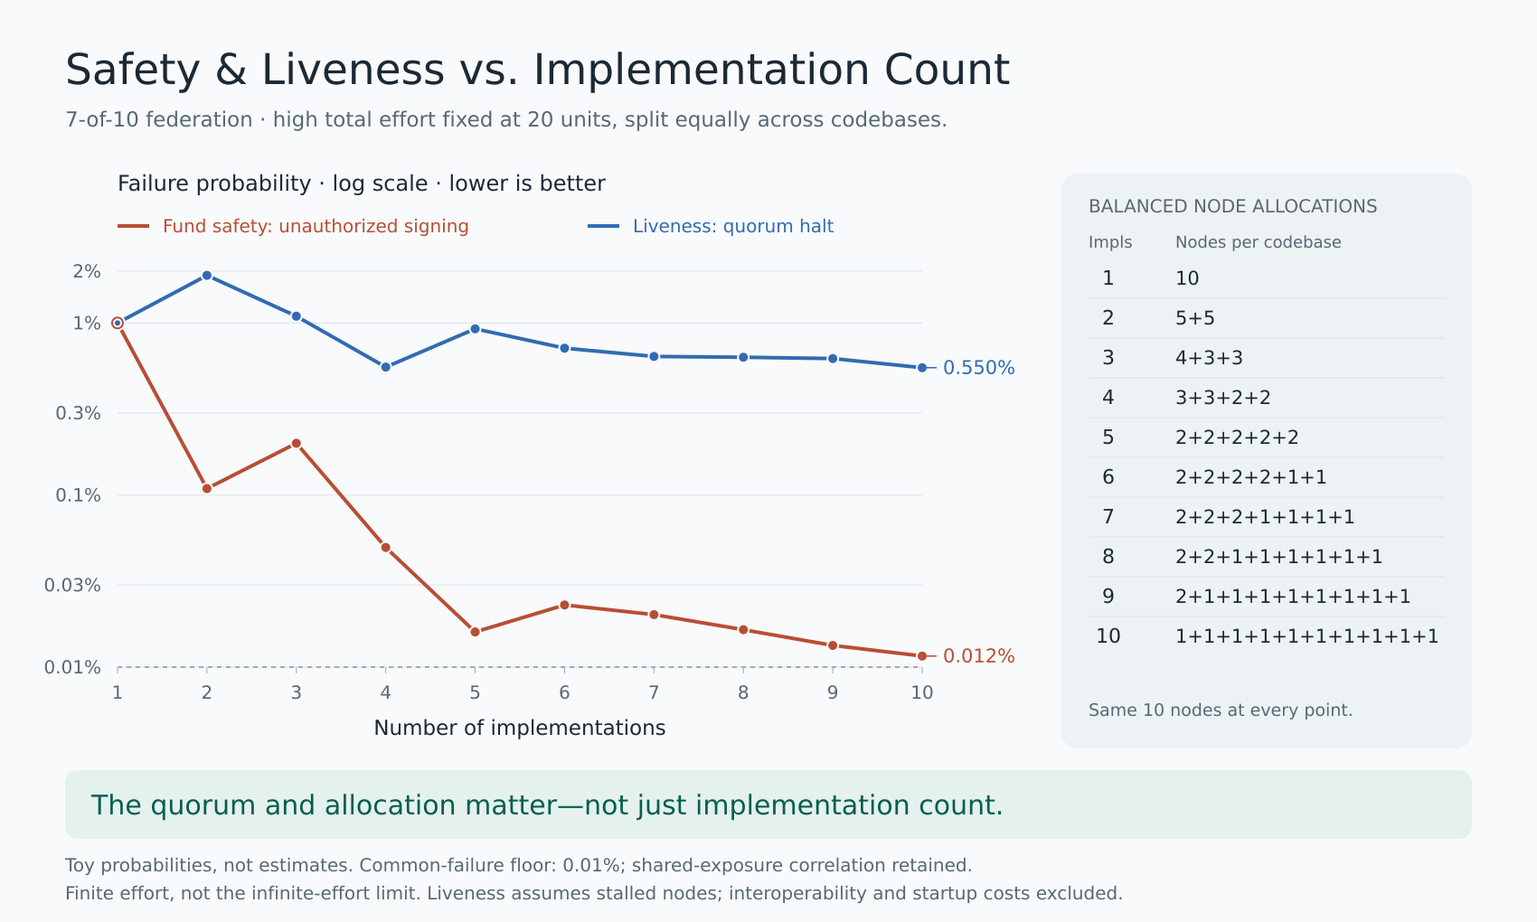
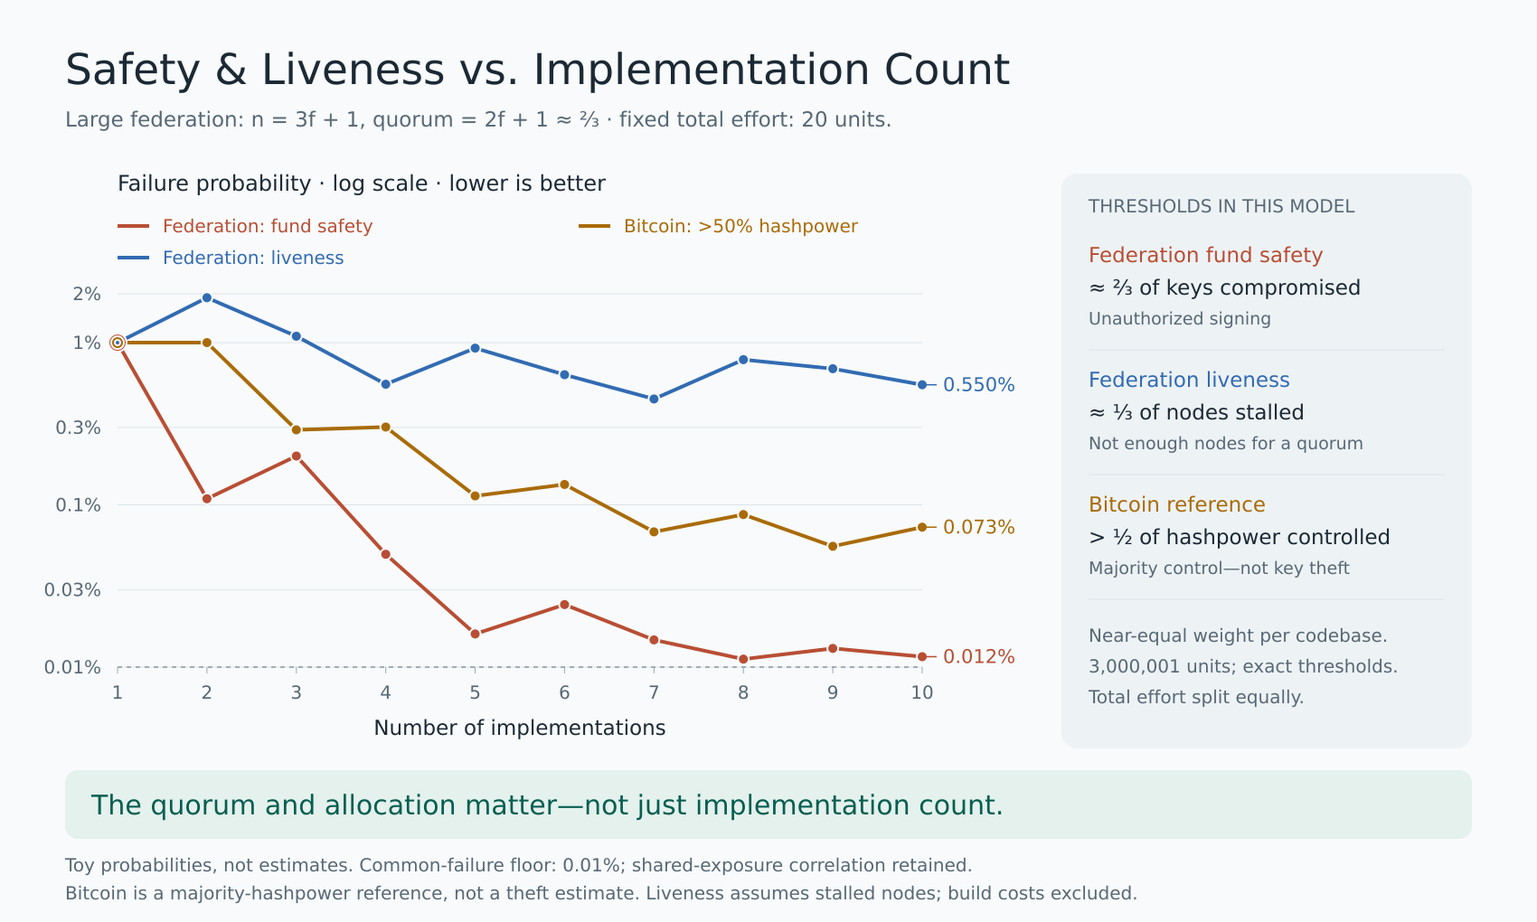
feat(illustrations): model large federations and Bitcoin majority control

diff --git a/implementation_count.py b/implementation_count.py
@@ -7,8 +7,11 @@ from html import escape
 import csv
 
 OUT = Path(__file__).resolve().parent
-NODES = 10
-QUORUM = 7
+FAULT_BUDGET = 1_000_000
+NODES = 3 * FAULT_BUDGET + 1
+QUORUM = 2 * FAULT_BUDGET + 1
+BITCOIN_MAJORITY = NODES // 2 + 1
+MAX_IMPLEMENTATIONS = 10
 BLOCKING_FAILURES = NODES - QUORUM + 1
 TOTAL_EFFORT = 20
 INITIAL_CONDITIONAL_RISK = 0.5
@@ -18,6 +21,7 @@ SINGLE_IMPLEMENTATION_FLOOR = 0.01
 EXPOSURE_PROBABILITY = (SINGLE_IMPLEMENTATION_FLOOR - SHARED_FAILURE_PROBABILITY) / RESIDUAL_CONDITIONAL_RISK
 SAFETY_COLOR = '#b84e34'
 LIVENESS_COLOR = '#326bb2'
+BITCOIN_COLOR = '#a96b08'
 
 
 @dataclass(frozen=True)
@@ -26,11 +30,12 @@ class Result:
     conditional_codebase_risk: float
     safety_failure: float
     liveness_failure: float
+    bitcoin_majority_control: float
 
 
 def balanced_allocation(count):
-    if not 1 <= count <= NODES:
-        raise ValueError(f'Implementation count must be between 1 and {NODES}')
+    if not 1 <= count <= MAX_IMPLEMENTATIONS:
+        raise ValueError(f'Implementation count must be between 1 and {MAX_IMPLEMENTATIONS}')
     size, extra = divmod(NODES, count)
     return (size + 1,) * extra + (size,) * (count - extra)
 
@@ -49,28 +54,32 @@ def calculate(count):
     probability = RESIDUAL_CONDITIONAL_RISK + (INITIAL_CONDITIONAL_RISK - RESIDUAL_CONDITIONAL_RISK) * exp(-TOTAL_EFFORT / count)
     def overall(threshold):
         return SHARED_FAILURE_PROBABILITY + EXPOSURE_PROBABILITY * failure_probability(allocation, probability, threshold)
-    return Result(allocation, probability, overall(QUORUM), overall(BLOCKING_FAILURES))
+    return Result(allocation, probability, overall(QUORUM), overall(BLOCKING_FAILURES), overall(BITCOIN_MAJORITY))
 
 
 def check_model(results):
+    assert NODES == 3 * FAULT_BUDGET + 1 and QUORUM == 2 * FAULT_BUDGET + 1
+    assert BLOCKING_FAILURES == FAULT_BUDGET + 1
+    assert 2 * (BITCOIN_MAJORITY - 1) <= NODES < 2 * BITCOIN_MAJORITY
     for row in results:
         allocation = row.allocation
         assert sum(allocation) == NODES, 'Node count must stay fixed'
         assert max(allocation) - min(allocation) <= 1, 'Allocation must be balanced'
-        assert SHARED_FAILURE_PROBABILITY <= row.safety_failure <= row.liveness_failure <= 1
+        assert isclose(failure_probability(allocation, 0.5, BITCOIN_MAJORITY), 0.5, abs_tol=1e-12), 'Odd total weight gives complementary majority outcomes'
+        assert SHARED_FAILURE_PROBABILITY <= row.safety_failure <= row.bitcoin_majority_control <= row.liveness_failure <= 1
         # Independently convolve each group's node count to check enumeration.
         for probability in (0, row.conditional_codebase_risk, 0.5, 1):
-            distribution = [1.0] + [0.0] * NODES
+            distribution = {0: 1.0}
             for size in allocation:
-                updated = [0.0] * (NODES + 1)
-                for failed_nodes, mass in enumerate(distribution):
-                    updated[failed_nodes] += mass * (1 - probability)
+                updated = {}
+                for failed_nodes, mass in distribution.items():
+                    updated[failed_nodes] = updated.get(failed_nodes, 0.0) + mass * (1 - probability)
                     if failed_nodes + size <= NODES:
-                        updated[failed_nodes + size] += mass * probability
+                        updated[failed_nodes + size] = updated.get(failed_nodes + size, 0.0) + mass * probability
                 distribution = updated
-            assert isclose(sum(distribution), 1, abs_tol=1e-12), 'Probability mass must be preserved'
-            for threshold in (QUORUM, BLOCKING_FAILURES):
-                assert isclose(failure_probability(allocation, probability, threshold), sum(distribution[threshold:]), abs_tol=1e-12)
+            assert isclose(sum(distribution.values()), 1, abs_tol=1e-12), 'Probability mass must be preserved'
+            for threshold in (QUORUM, BLOCKING_FAILURES, BITCOIN_MAJORITY):
+                assert isclose(failure_probability(allocation, probability, threshold), sum(mass for failed_nodes, mass in distribution.items() if failed_nodes >= threshold), abs_tol=1e-12)
     assert isclose(results[0].safety_failure, results[0].liveness_failure, abs_tol=1e-12)
     # Cross-check against the existing charts without importing their generators,
     # whose module-level execution would regenerate files as a side effect.
@@ -84,10 +93,10 @@ def check_model(results):
 def write_csv(results):
     with (OUT / 'implementation-count.csv').open('w', newline='') as handle:
         writer = csv.writer(handle, lineterminator='\n')
-        writer.writerow(('implementations', 'node_allocation', 'total_effort', 'effort_per_implementation', 'conditional_codebase_failure_probability', 'fund_safety_failure_probability', 'liveness_failure_probability'))
+        writer.writerow(('implementations', 'node_allocation', 'total_effort', 'effort_per_implementation', 'conditional_codebase_failure_probability', 'fund_safety_failure_probability', 'liveness_failure_probability', 'bitcoin_majority_control_probability'))
         for row in results:
             count = len(row.allocation)
-            writer.writerow((count, '+'.join(map(str, row.allocation)), TOTAL_EFFORT, TOTAL_EFFORT / count, row.conditional_codebase_risk, row.safety_failure, row.liveness_failure))
+            writer.writerow((count, '+'.join(map(str, row.allocation)), TOTAL_EFFORT, TOTAL_EFFORT / count, row.conditional_codebase_risk, row.safety_failure, row.liveness_failure, row.bitcoin_majority_control))
 
 
 def write_svg(results):
@@ -102,29 +111,31 @@ def write_svg(results):
         svg.append(f'<circle cx="{x}" cy="{y}" r="{radius}" fill="{color}" stroke="#f8fafb" stroke-width="2"/>')
 
     text(72, 93, 'Safety & Liveness vs. Implementation Count', 47, weight='bold')
-    text(72, 140, '7-of-10 federation · high total effort fixed at 20 units, split equally across codebases.', 23, '#576875')
+    text(72, 140, 'Large federation: n = 3f + 1, quorum = 2f + 1 ≈ ⅔ · fixed total effort: 20 units.', 23, '#576875')
     text(130, 211, 'Failure probability · log scale · lower is better', 24, weight='bold')
     line(130, 250, 165, 250, SAFETY_COLOR, 4)
-    text(180, 257, 'Fund safety: unauthorized signing', 20, SAFETY_COLOR)
-    line(650, 250, 685, 250, LIVENESS_COLOR, 4)
-    text(700, 257, 'Liveness: quorum halt', 20, LIVENESS_COLOR)
+    text(180, 257, 'Federation: fund safety', 20, SAFETY_COLOR)
+    line(130, 285, 165, 285, LIVENESS_COLOR, 4)
+    text(180, 292, 'Federation: liveness', 20, LIVENESS_COLOR)
+    line(640, 250, 675, 250, BITCOIN_COLOR, 4)
+    text(690, 257, 'Bitcoin: >50% hashpower', 20, BITCOIN_COLOR)
 
-    x0, x1, y0, y1 = 130, 1020, 738, 300
+    x0, x1, y0, y1 = 130, 1020, 738, 325
     lower, upper = SHARED_FAILURE_PROBABILITY, 0.02
-    px = lambda count: x0 + (x1 - x0) * (count - 1) / (NODES - 1)
+    px = lambda count: x0 + (x1 - x0) * (count - 1) / (MAX_IMPLEMENTATIONS - 1)
     py = lambda probability: y0 - (y0 - y1) * (log10(probability) - log10(lower)) / (log10(upper) - log10(lower))
     for percent in (0.01, 0.03, 0.1, 0.3, 1, 2):
         y = py(percent / 100)
         line(x0, y, x1, y)
         text(x0 - 18, y + 7, f'{percent:g}%', 20, '#576875', anchor='end')
     line(x0, y0, x1, y0, '#8796a0', 1.5, '5 5')
-    for count in range(1, NODES + 1):
+    for count in range(1, MAX_IMPLEMENTATIONS + 1):
         x = px(count)
         line(x, y0, x, y0 + 7, '#9aaab5')
         text(x, y0 + 35, str(count), 20, '#576875', anchor='middle')
     text((x0 + x1) / 2, 813, 'Number of implementations', 23, anchor='middle')
 
-    for field, color in (('safety_failure', SAFETY_COLOR), ('liveness_failure', LIVENESS_COLOR)):
+    for field, color in (('safety_failure', SAFETY_COLOR), ('liveness_failure', LIVENESS_COLOR), ('bitcoin_majority_control', BITCOIN_COLOR)):
         points = ' '.join(f'{px(len(row.allocation)):.2f},{py(getattr(row, field)):.2f}' for row in results)
         svg.append(f'<polyline points="{points}" fill="none" stroke="{color}" stroke-width="4" stroke-linejoin="round"/>')
         for row in results:
@@ -132,38 +143,45 @@ def write_svg(results):
         risk = getattr(results[-1], field)
         line(x1, py(risk), x1 + 16, py(risk), color, 1.5)
         text(x1 + 23, py(risk) + 7, f'{risk * 100:.3f}%', 21, color, 'bold')
-    # Both metrics coincide at one codebase; concentric markers keep both visible.
-    dot(px(1), py(results[0].safety_failure), SAFETY_COLOR, 8)
-    dot(px(1), py(results[0].liveness_failure), LIVENESS_COLOR, 4)
+    # All three metrics coincide at one codebase; concentric markers show each.
+    dot(px(1), py(results[0].safety_failure), SAFETY_COLOR, 10)
+    dot(px(1), py(results[0].bitcoin_majority_control), BITCOIN_COLOR, 7)
+    dot(px(1), py(results[0].liveness_failure), LIVENESS_COLOR, 3)
 
     rect(1174, 192, 454, 636, '#edf2f5', 18)
-    text(1204, 235, 'BALANCED NODE ALLOCATIONS', 20, '#576875', 'bold')
-    text(1204, 274, 'Impls', 18, '#576875')
-    text(1300, 274, 'Nodes per codebase', 18, '#576875')
-    for index, row in enumerate(results):
-        y = 315 + index * 44
-        text(1226, y, str(len(row.allocation)), 22, weight='bold', anchor='middle')
-        text(1300, y, '+'.join(map(str, row.allocation)), 21)
-        if index < NODES - 1:
-            line(1204, y + 15, 1598, y + 15, '#dce3e8')
-    text(1204, 792, 'Same 10 nodes at every point.', 19, '#576875')
+    text(1204, 235, 'THRESHOLDS IN THIS MODEL', 20, '#576875', 'bold')
+    text(1204, 290, 'Federation fund safety', 23, SAFETY_COLOR, 'bold')
+    text(1204, 326, '≈ ⅔ of keys compromised', 23)
+    text(1204, 359, 'Unauthorized signing', 19, '#576875')
+    line(1204, 387, 1598, 387)
+    text(1204, 428, 'Federation liveness', 23, LIVENESS_COLOR, 'bold')
+    text(1204, 464, '≈ ⅓ of nodes stalled', 23)
+    text(1204, 497, 'Not enough nodes for a quorum', 19, '#576875')
+    line(1204, 525, 1598, 525)
+    text(1204, 566, 'Bitcoin reference', 23, BITCOIN_COLOR, 'bold')
+    text(1204, 602, '> ½ of hashpower controlled', 23)
+    text(1204, 635, 'Majority control—not key theft', 19, '#576875')
+    line(1204, 663, 1598, 663)
+    text(1204, 710, 'Near-equal weight per codebase.', 20, '#576875')
+    text(1204, 744, '3,000,001 units; exact thresholds.', 20, '#576875')
+    text(1204, 778, 'Total effort split equally.', 20, '#576875')
 
     rect(72, 852, 1556, 76, '#e4f1ed', 14)
     text(101, 901, 'The quorum and allocation matter—not just implementation count.', 30, '#075e50', 'bold')
     text(72, 964, 'Toy probabilities, not estimates. Common-failure floor: 0.01%; shared-exposure correlation retained.', 20, '#576875')
-    text(72, 995, 'Finite effort, not the infinite-effort limit. Liveness assumes stalled nodes; interoperability and startup costs excluded.', 20, '#576875')
+    text(72, 995, 'Bitcoin is a majority-hashpower reference, not a theft estimate. Liveness assumes stalled nodes; build costs excluded.', 20, '#576875')
     svg.extend(('</g>', '</svg>'))
     (OUT / 'implementation-count.svg').write_text('\n'.join(svg), encoding='utf-8')
 
 
 def main():
-    results = [calculate(count) for count in range(1, NODES + 1)]
+    results = [calculate(count) for count in range(1, MAX_IMPLEMENTATIONS + 1)]
     check_model(results)
     write_csv(results)
     write_svg(results)
-    print('Model checks passed, including agreement with existing charts at E=20.')
+    print('Model checks passed: large federation, strict hashpower majority, and unchanged 1/2/4-codebase federation cases.')
     for row in results:
-        print(f'{len(row.allocation):2} implementations: safety failure {100 * row.safety_failure:.6f}%; liveness failure {100 * row.liveness_failure:.6f}%')
+        print(f'{len(row.allocation):2} implementations: safety failure {100 * row.safety_failure:.6f}%; liveness failure {100 * row.liveness_failure:.6f}%; Bitcoin majority {100 * row.bitcoin_majority_control:.6f}%')
 
 
 if __name__ == '__main__':

diff --git a/implementation-count-model.md b/implementation-count-model.md
@@ -1,53 +1,66 @@
 # Safety and Liveness vs. Implementation Count
 
-This chart takes a **fixed-total-effort slice at E=20** of the existing illustrative models, extending balanced deployments from one to ten implementations in a 7-of-10 federation. E=20 is the right-hand endpoint of the existing charts, not the infinite-effort limit. Each codebase gets E/k effort, so increasing implementation count reduces effort per codebase.
+This chart compares **one to ten implementations** at a fixed **20-unit total hardening budget**, using a very large federation and an additional Bitcoin-style majority-hashpower reference. Each codebase receives E/k effort. This is finite high effort, not the infinite-effort limit.
 
-The plot shows **failure probabilities**, not success probabilities. Fund-safety failure means unauthorized signing; liveness failure means a bug-induced quorum halt. A logarithmic vertical axis makes small probabilities visible. Connecting lines guide the eye between discrete implementation counts; fractional codebase counts are not modeled.
+All plotted probabilities are hypothetical. The three lines model different outcomes; they are not interchangeable estimates of actual fund-loss risk.
 
-## Allocation and failure conditions
+## Federation and thresholds
 
-Ten nodes are distributed as evenly as possible: for k implementations, each receives either `floor(10/k)` or `ceil(10/k)` nodes.
+Use `f = 1,000,000`, so:
 
-- **Fund safety fails** when compromised codebases collectively control at least **seven keys**.
-- **Liveness fails** when stalled codebases collectively disable at least **four nodes**, leaving fewer than seven compatible, responsive nodes.
+- Federation size: `n = 3f + 1 = 3,000,001` nodes.
+- Signing quorum: `q = 2f + 1 = 2,000,001` keys, approximately two thirds.
+- Quorum halt: `n - q + 1 = f + 1 = 1,000,001` stalled nodes, approximately one third.
 
-Safety and liveness are evaluated as separate scenarios with the same illustrative parameters, not as joint real-world events. The probabilities are not meant to be added together.
+For k implementations, distribute nodes as evenly as possible: each codebase receives either `floor(n/k)` or `ceil(n/k)` nodes. A failed codebase affects its entire assigned group.
 
-## Probability model
+**Exact integer thresholds are retained.** Even with millions of nodes, rounding can matter when a group combination lies exactly around one third, one half or two thirds. For example, at k=3 the allocation is 1,000,001 + 1,000,000 + 1,000,000: the largest codebase alone can halt the federation, whereas either smaller one alone cannot. The chart enumerates weighted combinations, rather than rounding a fraction of k implementations to an integer.
 
-As in the existing charts:
+This is one explicit near-equal allocation, not a claim that every possible large-federation allocation yields identical probabilities.
 
-- Shared failure directly causes the relevant system failure with probability **0.01%**.
+## Bitcoin reference: majority hashpower, not node count
+
+For the orange line, reinterpret the same 3,000,001 abstract units as **hashpower units**, split nearly equally across implementations. Its threshold is strictly greater than 50%: `floor(n/2) + 1 = 1,500,001` units. A compromised mining implementation is assumed to give an adversary control of all hashpower assigned to it. That is a toy-model assumption, not a description of actual Bitcoin implementation shares or every software vulnerability.
+
+Bitcoin's developer guide explains majority-hashpower attacks on transaction history and also notes that attacks can succeed with less than 50%. The graph therefore measures a **majority-control event**, not the full probability of a successful Bitcoin attack. [Bitcoin Developer Guide: Block Chain](https://developer.bitcoin.org/devguide/block_chain.html)
+
+Majority hashpower does not grant private keys or let miners make arbitrary invalid transactions acceptable to correct validating nodes. The Bitcoin guide describes chain selection among valid blocks. This is not a Bitcoin key-theft curve and is not directly equivalent to unauthorized threshold signing. [Bitcoin Developer Guide: Block Chain](https://developer.bitcoin.org/devguide/block_chain.html)
+
+## Shared probability assumptions
+
+As in the earlier charts:
+
+- Shared failure directly causes the relevant modeled outcome with probability **0.01%**.
 - A separate shared-exposure scenario occurs with probability **9.9%**.
-- Conditional on that scenario, each codebase independently fails with probability `p = 0.10 + 0.40 * exp(-20/k)`.
-- Overall failure probability is `0.0001 + 0.099 * Q`, where Q is the conditional probability of reaching the relevant failed-node threshold.
+- Conditional on that scenario, codebases independently fail with probability `p = 0.10 + 0.40 * exp(-20/k)`.
+- Overall probability is `0.0001 + 0.099 * Q`, where Q is the conditional probability of reaching the relevant weight threshold.
 
-For allocation `a[1], ..., a[k]`, the model enumerates every subset S of failed codebases and sums
+For each subset S of failed implementations, sum `p^|S| * (1-p)^(k-|S|)` if its total assigned weight reaches the threshold. Shared failure and shared exposure create unconditional correlation; independence only holds conditional on exposure.
 
-`p^|S| * (1-p)^(k-|S|)`
-
-over subsets whose total node count reaches seven (safety) or four (liveness). Shared failure and shared exposure create **unconditional correlation**; codebase failures are independent only conditional on exposure.
+Identical numerical parameters are used to isolate threshold effects, not to claim equal real-world bug rates across federation signing, consensus liveness and Bitcoin mining. The three probabilities should not be added together.
 
 ## Results at total effort E=20
 
-| Implementations | Node allocation | Fund-safety failure | Liveness failure |
+| Implementations | Federation safety failure | Federation liveness failure | Bitcoin majority control |
 | --- | --- | --- | --- |
-| 1 | 10 | 1.000000% | 1.000000% |
-| 2 | 5+5 | 0.109036% | 1.891324% |
-| 3 | 4+3+3 | 0.199969% | 1.094998% |
-| 4 | 3+3+2+2 | 0.049586% | 0.553976% |
-| 5 | 2+2+2+2+2 | 0.016004% | 0.924729% |
-| 6 | 2+2+2+2+1+1 | 0.022965% | 0.713566% |
-| 7 | 2+2+2+1+1+1+1 | 0.020178% | 0.638870% |
-| 8 | 2+2+1+1+1+1+1+1 | 0.016495% | 0.632048% |
-| 9 | 2+1+1+1+1+1+1+1+1 | 0.013363% | 0.621218% |
-| 10 | 1+1+1+1+1+1+1+1+1+1 | 0.011592% | 0.549635% |
+| 1 | 1.000000% | 1.000000% | 1.000000% |
+| 2 | 0.109036% | 1.891324% | 1.000180% |
+| 3 | 0.199969% | 1.094998% | 0.289928% |
+| 4 | 0.049586% | 0.553976% | 0.301781% |
+| 5 | 0.016004% | 0.924729% | 0.113534% |
+| 6 | 0.024289% | 0.634005% | 0.133554% |
+| 7 | 0.014711% | 0.449394% | 0.068166% |
+| 8 | 0.011196% | 0.785333% | 0.087150% |
+| 9 | 0.013039% | 0.690366% | 0.055535% |
+| 10 | 0.011592% | 0.549635% | 0.072853% |
 
-## Interpretation and limits
+## Reading the plot and limitations
 
-The curves need not decrease monotonically. Integer node allocations change which failure combinations cross the threshold, while the fixed budget gives each codebase less hardening as k grows. For example, going from four to five implementations changes the allocation from 3+3+2+2 to 2+2+2+2+2. A liveness halt still requires two stalled codebases, but there are more possible pairs and less hardening per codebase.
+The vertical axis is logarithmic; lower is better. Lines connect discrete implementation counts, not fractional codebase counts. Curves are not necessarily monotonic: allocations change which subsets reach thresholds, and more codebases mean less hardening per codebase.
 
-All numbers are hypothetical. Equal starting quality and hardening efficiency are assumed. Startup costs, interoperability regressions, recovery time and non-codebase failures are excluded. Liveness assumes affected nodes stop or refuse to vote, while remaining nodes agree and can communicate; it does not model every consensus bug. See the existing safety and liveness model notes for further limitations.
+Liveness assumes affected nodes stop participating or refuse to vote, while remaining nodes agree and can communicate. It does not model every consensus bug or arbitrary Byzantine behavior. The federation safety line models direct compromise of signing keys, not every way consensus safety can fail. Startup costs, interoperability regressions, unequal codebase quality, outage duration, mining economics, confirmation depth and actual Bitcoin deployment shares are excluded.
+
+The original hardening-effort charts remain 7-of-10 examples. Their one-, two-, and four-implementation probabilities happen to match the corresponding federation points here because those allocations have the same successful failure-subset patterns. That equivalence does not hold for all implementation counts.
 
 ## Regenerate
 
@@ -56,4 +69,4 @@ python3 implementation_count.py
 magick -background '#f8fafb' implementation-count.svg implementation-count.png
 ```
 
-The generator verifies subset enumeration against an independent failed-node-count convolution, checks balanced allocations and probability bounds, and cross-checks the one-, two-, and four-codebase values against the existing CSVs at E=20. Run it with the companion CSVs present. Its outputs are written alongside the script.
+The generator checks exhaustive subset enumeration against a sparse convolution, verifies exact threshold identities and the symmetry of majority outcomes, checks bounds and balanced allocations, and confirms the unchanged one-, two-, and four-implementation federation cases against the companion CSVs. Its outputs are written alongside the script. The CSV contains exact weight allocations as well as all three outcome probabilities.

diff --git a/README.md b/README.md
@@ -1,6 +1,6 @@
 # Threshold Illustrations
 
-Illustrative models of how implementation diversity affects **signing safety** and **consensus liveness** in a **7-of-10 federation**, comparing hardening effort for one, two, and four codebases, plus a fixed-high-effort comparison across one to ten codebases.
+Illustrative models of how implementation diversity affects **signing safety** and **consensus liveness**: two hardening-effort charts for a **7-of-10 federation**, plus a **large-federation** implementation-count comparison with a Bitcoin majority-hashpower reference.
 
 **These are hypothetical probabilities, not security or reliability estimates for Fedimint or any deployed system.**
 
@@ -34,7 +34,7 @@ The liveness model assumes bugs stall nodes or make them refuse to vote. Four un
 
 ![Safety and liveness vs. implementation count](implementation-count.png)
 
-A fixed **20-unit total hardening budget** is divided across **1–10 implementations**, with ten nodes allocated as evenly as possible. Both curves show failure probabilities; lower is better. The vertical axis is logarithmic. This uses the existing charts' high-effort endpoint, not infinite effort.
+A fixed **20-unit total hardening budget** is divided across **1–10 implementations** in a large federation: **n = 3f+1**, **quorum = 2f+1 ≈ ⅔**, with f = 1,000,000 and near-equal codebase shares. A third line shows a **Bitcoin-style >50% hashpower-control reference**, not key theft or actual Bitcoin attack probability. All three curves use the same toy risk parameters and a logarithmic vertical axis. This is finite high effort, not infinite effort; exact integer thresholds are retained.
 
 [SVG](implementation-count.svg) · [Data](implementation-count.csv) · [Model and limitations](implementation-count-model.md) · [Generator](implementation_count.py)
 
@@ -48,7 +48,7 @@ A fixed **20-unit total hardening budget** is divided across **1–10 implementa
 - Thus these are **not** models of unconditionally independent 1% implementation failures.
 - Implementation startup costs, unequal codebase quality and interoperability regressions are excluded. The liveness chart models quorum loss, not every consensus bug or outage duration.
 
-The identical parameters make the two mechanisms easier to compare; they do not imply that real safety and liveness bug rates are equal. See the model notes for formulas and limitations.
+The identical parameters make threshold effects easier to compare; they do not imply that real safety, liveness and Bitcoin mining bug rates are equal. See the model notes for formulas and limitations.
 
 ## Regenerate
 
@@ -64,4 +64,4 @@ magick -background '#f8fafb' consensus-liveness.svg consensus-liveness.png
 magick -background '#f8fafb' implementation-count.svg implementation-count.png
 ```
 
-Each Python script checks exhaustive failure-state enumeration against closed-form probabilities or an independent convolution, validates model invariants, and writes its SVG and CSV alongside itself. The implementation-count generator also checks agreement with the companion CSVs at total effort E=20. PNG appearance can vary with renderer and installed fonts; the SVG requests DejaVu Sans.
+Each Python script checks exhaustive failure-state enumeration against closed-form probabilities or an independent convolution, validates model invariants, and writes its SVG and CSV alongside itself. The implementation-count generator also checks the unchanged one-, two-, and four-implementation federation cases against the companion CSVs at total effort E=20. PNG appearance can vary with renderer and installed fonts; the SVG requests DejaVu Sans.
